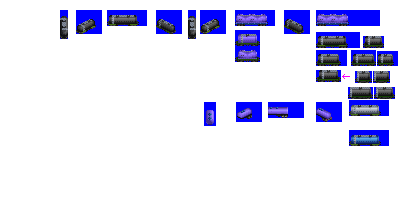
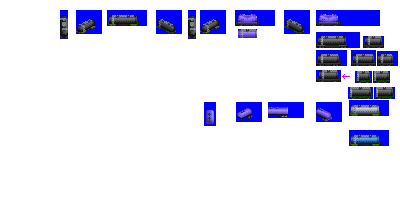
Fix: correct type for gen 5 silo cars

Changed region(s): [[0.57, 0.06, 0.69, 0.33], [0.78, 0.06, 0.87, 0.15]]

diff --git a/src/vehicles/silo_cars.py b/src/vehicles/silo_cars.py
@@ -17,7 +17,7 @@ def main():
     consist = SiloConsist(roster='pony',
                           base_numeric_id=2980,
                           gen=5,
-                          subtype='A')
+                          subtype='B')
 
     consist.add_unit(type=FreightCar,
                      vehicle_length=6)
@@ -28,7 +28,7 @@ def main():
     consist = SiloConsist(roster='pony',
                           base_numeric_id=2960,
                           gen=5,
-                          subtype='B')
+                          subtype='C')
 
     consist.add_unit(type=FreightCar,
                      vehicle_length=8)
